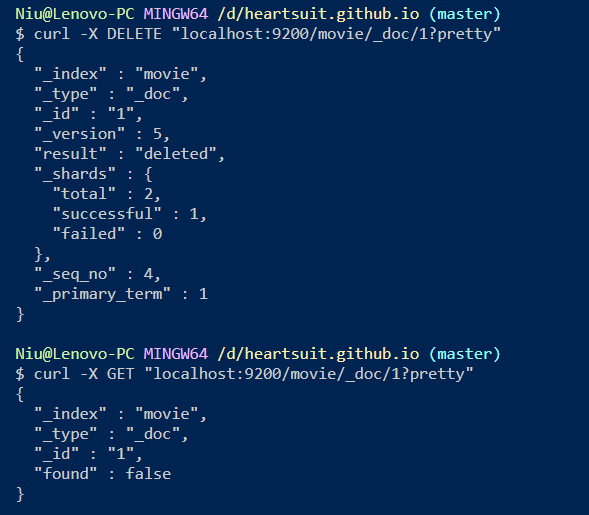
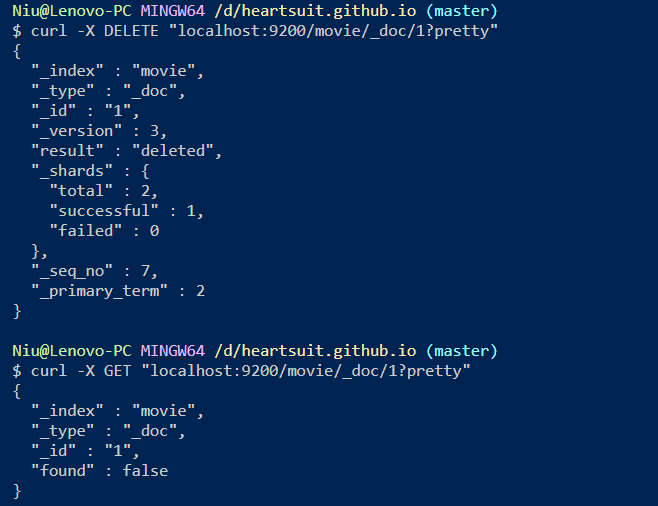
provide command in post

diff --git a/_posts/2020-02-20-ElasticSearch-Basics.md b/_posts/2020-02-20-ElasticSearch-Basics.md
@@ -48,17 +48,35 @@ cd elasticsearch-7.5.2\bin
 
 - 增
 
+``` bash
+curl -X PUT "localhost:9200/movie/_doc/1?pretty" -H 'Content-Type: application/json' -d'{"name": "Fantasy Island"}'
+```
+
 ![2020-02-20-ES-INSERT.png](https://github.com/heartsuit/heartsuit.github.io/raw/master/pictures/2020-02-20-ES-INSERT.png)
 
 - 查
+
+``` bash
+curl -X GET "localhost:9200/movie/_doc/1?pretty"
+```
 
 ![2020-02-20-ES-SELECT.jpg](https://github.com/heartsuit/heartsuit.github.io/raw/master/pictures/2020-02-20-ES-SELECT.jpg)
 
 - 改
 
+``` bash
+curl -X PUT "localhost:9200/movie/_doc/1?pretty" -H 'Content-Type: application/json' -d'{"name": "JOKER"}'
+curl -X GET "localhost:9200/movie/_doc/1?pretty"
+```
+
 ![2020-02-20-ES-Update.jpg](https://github.com/heartsuit/heartsuit.github.io/raw/master/pictures/2020-02-20-ES-Update.jpg)
 
 - 删
+
+``` bash
+curl -X DELETE "localhost:9200/movie/_doc/1?pretty"
+curl -X GET "localhost:9200/movie/_doc/1?pretty"
+```
 
 ![2020-02-20-ES-DELETE.jpg](https://github.com/heartsuit/heartsuit.github.io/raw/master/pictures/2020-02-20-ES-DELETE.jpg)
 
